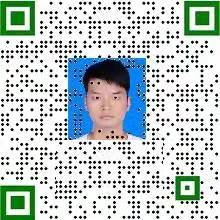
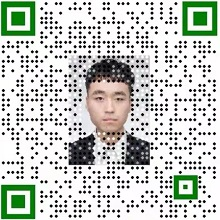
Site updated: 2021-10-28 22:02:12

diff --git a/QRCode/go1.html b/QRCode/go1.html
@@ -98,7 +98,7 @@
 			</div>
 			<div id="QRCode">
 				<div style="padding: 15px 15px 0px 15px;background: #fff;">
-					<img id="QRCodeHead" src="head.jpg" style="width:270px;height:270px;margin:  0 auto">
+					<img id="QRCodeHead" src="head1.jpg" style="width:270px;height:270px;margin:  0 auto">
 				<div style="font-family: 黑体;color: #00c; text-align:center;line-height:20px"><span >信息工程学院 周健章</span></div>
 				</div>
 				

diff --git a/2021/10/19/hello-world/index.html b/2021/10/19/hello-world/index.html
@@ -112,7 +112,7 @@
       
     </div>
     <footer class="article-footer">
-      <a data-url="http://example.com/2021/10/19/hello-world/" data-id="ckuy6pype0000t8w60w0z5zvg" data-title="Hello World" class="article-share-link">Share</a>
+      <a data-url="http://example.com/2021/10/19/hello-world/" data-id="ckvb0mqbe0000l0w639li38jc" data-title="Hello World" class="article-share-link">Share</a>
       
       
       

diff --git a/index.html b/index.html
@@ -110,7 +110,7 @@
       
     </div>
     <footer class="article-footer">
-      <a data-url="http://example.com/2021/10/19/hello-world/" data-id="ckuy6pype0000t8w60w0z5zvg" data-title="Hello World" class="article-share-link">Share</a>
+      <a data-url="http://example.com/2021/10/19/hello-world/" data-id="ckvb0mqbe0000l0w639li38jc" data-title="Hello World" class="article-share-link">Share</a>
       
       
       
